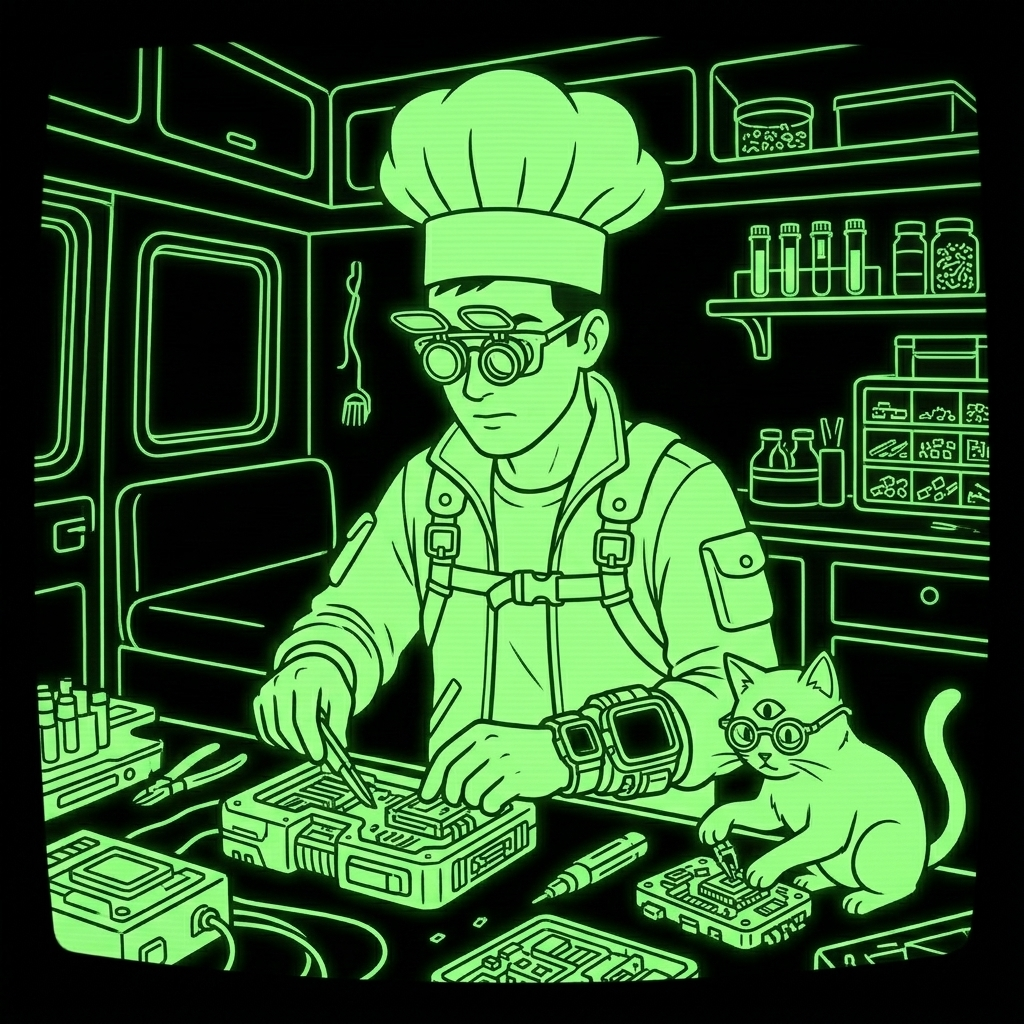
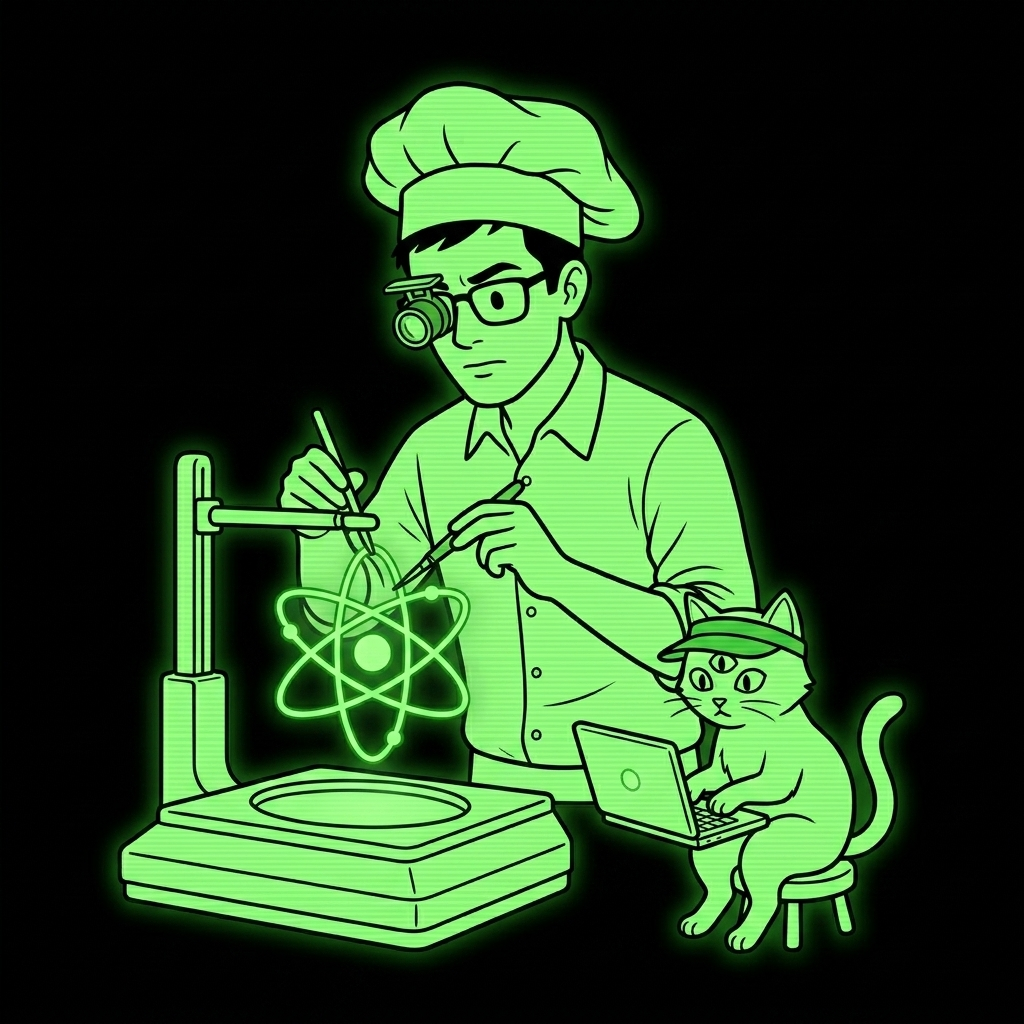
Update PERKS illustrations for Atomic Precision and Lateral Thinker, fix image cache-busting

diff --git a/index.html b/index.html
@@ -23,7 +23,7 @@
     <script src="js/intro.js?v=71.0" defer></script>
     <script src="js/map.js?v=71.0" defer></script>
     <script src="js/neo_eye_3d.js?v=71.0" defer></script>
-    <script src="js/app.js?v=75.0" defer></script>
+    <script src="js/app.js?v=77.0" defer></script>
     <!-- Critical inline CSS fallback for INV toggle (prevents browser default button styling) -->
     <style>
         .inv-toggle-btn{background:transparent!important;border:none!important;outline:none!important;-webkit-appearance:none!important;appearance:none!important;color:#1bfd02!important;font-family:'VT323',monospace!important;padding:0!important;margin:0!important;box-shadow:none!important;cursor:pointer;display:flex;align-items:center;gap:10px;width:100%;text-align:left}
@@ -529,7 +529,7 @@
             <div id="data" class="tab-content">
                 <h2>DATA & CONTACTS</h2>
                 <p>> EMAIL: vibe.tec.corp@gmail.com</p>
-                <p>> LINKEDIN: Initializing...</p>
+                <p>> LINKEDIN: <a href="https://www.linkedin.com/in/leonardo-sorrentino-088145429" target="_blank" rel="noopener noreferrer">LinkedIn</a></p>
                 <p>> GITHUB: Initializing...</p>
             </div>
 

diff --git a/js/app.js b/js/app.js
@@ -239,7 +239,7 @@ document.addEventListener("DOMContentLoaded", () => {
                     // Per ora uso il targetId come placeholder (es: perk-desc-1.jpg)
                     const avatarImg = document.getElementById('stat-avatar');
                     if (avatarImg) {
-                        avatarImg.src = `assets/img/${targetId}.jpg?v=27.0`;
+                        avatarImg.src = `assets/img/${targetId}.jpg?v=${Date.now()}`;
                     }
                     
                     // Spostiamo stat-right dentro il perk selezionato se su mobile

diff --git a/css/crt-theme.css b/css/crt-theme.css
@@ -234,6 +234,18 @@ body {
     box-shadow: inset 0 0 10px rgba(27, 253, 2, 0.05);
 }
 
+.tab-content a {
+    color: var(--pip-green);
+    text-decoration: underline;
+    transition: all 0.2s ease;
+}
+
+.tab-content a:hover {
+    color: #ffffff;
+    text-shadow: 0 0 10px var(--pip-green);
+    background-color: var(--pip-green-hover);
+}
+
 /* Tab Specific Layouts */
 .stat-layout {
     display: flex;
